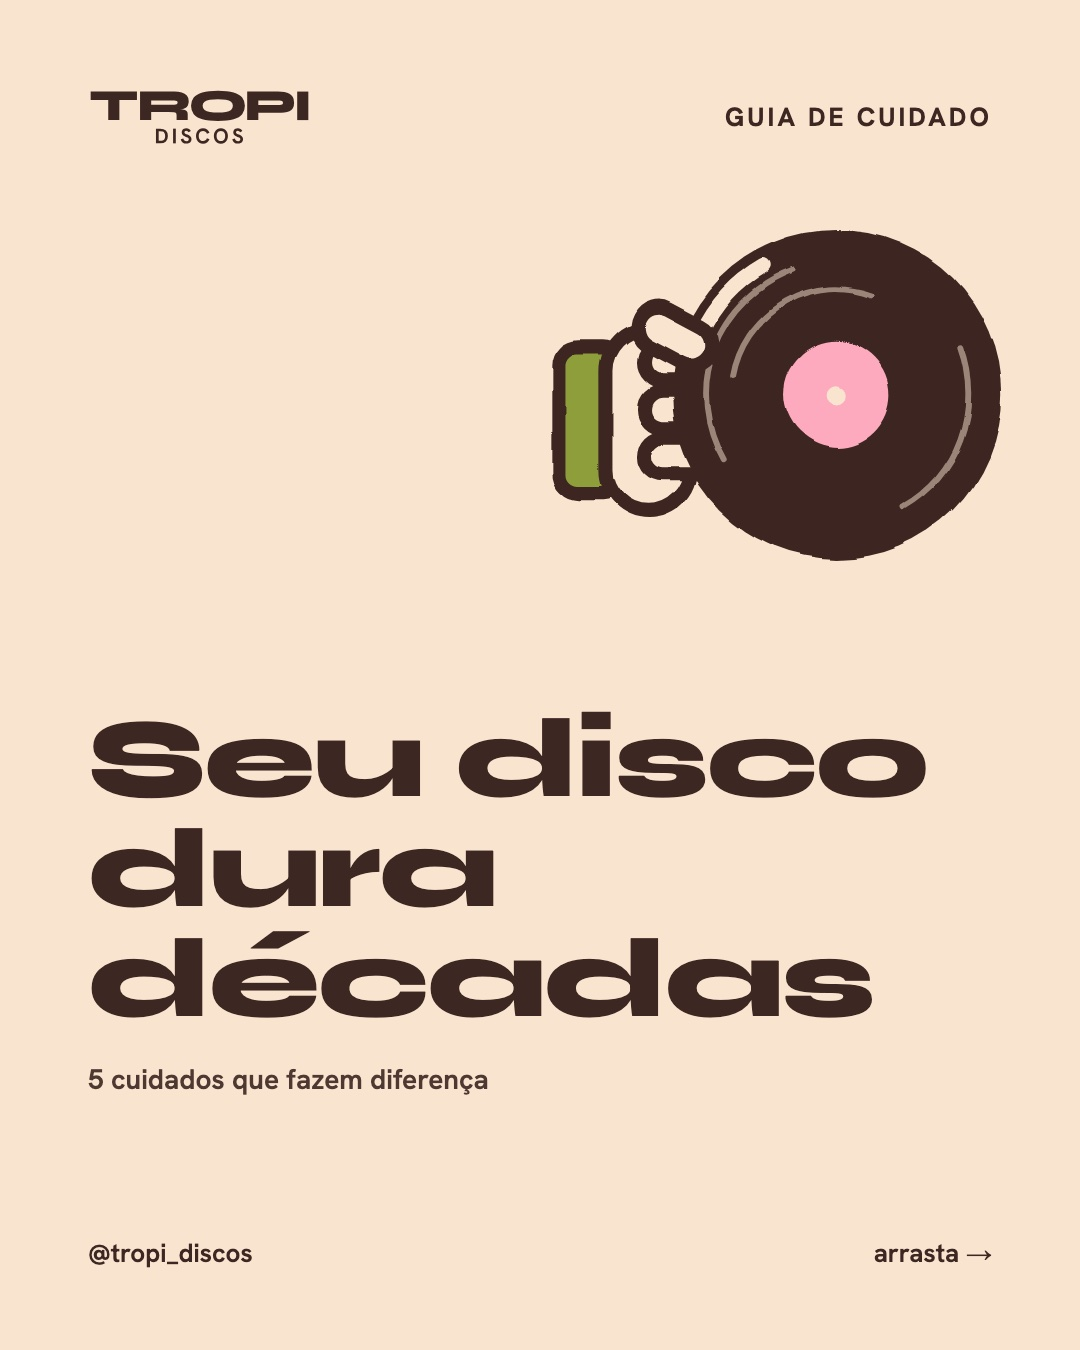
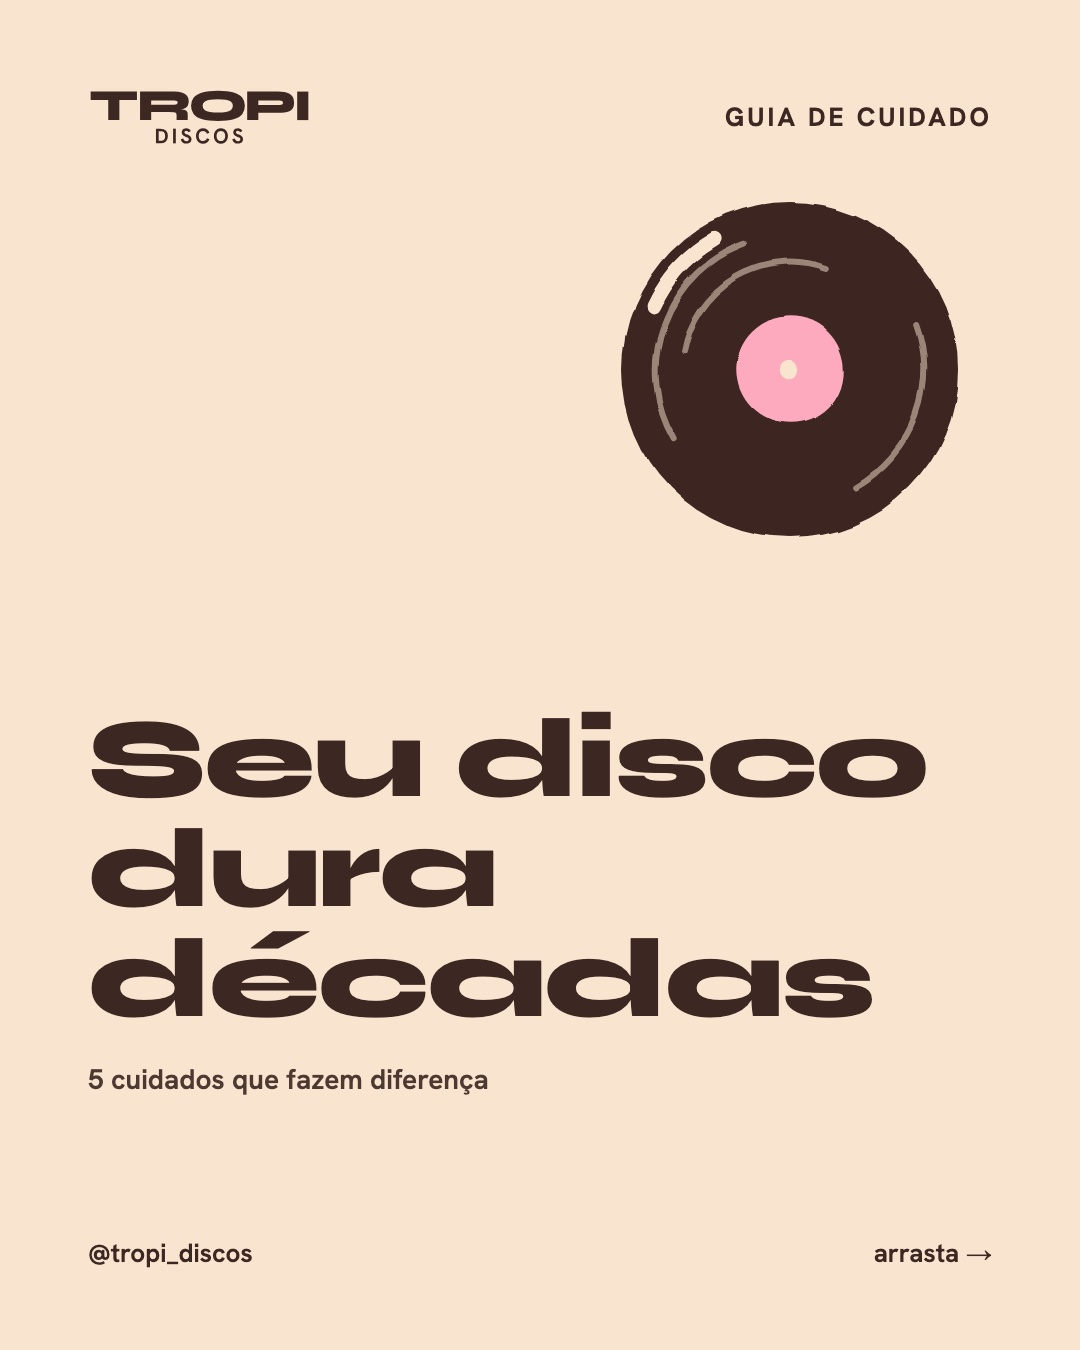
conteudo(tropi): vinil no lugar da mão e capas puras de Elza e Milton

Changed region(s): [[0.4889, 0.1244, 0.9472, 0.4356]]

diff --git a/clientes/tropi/2026-10/posts/09-data-importante/slide-1.html b/clientes/tropi/2026-10/posts/09-data-importante/slide-1.html
@@ -6,7 +6,7 @@
 </head>
 <body class="bg-goiaba">
 <div class="topo"><img class="logo" src="file:///Users/Lucas/Documents/Freelas/tropi-discos/marca/logo/final/logo/tropi-logo-cafe.svg" alt="Tropi Discos"><span class="rotulo">26 de outubro</span></div>
-<div class="bloco" style="gap:20px"><img class="cutout" src="disco-cutout.png" style="width:640px;margin-bottom:30px" alt=""><h1 class="ttl" style="font-size:88px;max-width:12ch">Milton faz aniversário</h1><p class="texto" style="max-width:30ch">84 anos da voz de Clube da Esquina. Na loja: Tarde, disco acústico pelo NRC.</p></div>
+<div class="bloco" style="gap:20px"><img class="capa-disco" src="capa.png" style="width:460px;margin-bottom:30px" alt=""><h1 class="ttl" style="font-size:88px;max-width:12ch">Milton faz aniversário</h1><p class="texto" style="max-width:30ch">84 anos da voz de Clube da Esquina. Na loja: Tarde, disco acústico pelo NRC.</p></div>
 <div class="rodape"><span class="handle">@tropi_discos</span></div>
 <img class="elemento" src="file:///Users/Lucas/Documents/Freelas/tropi-discos/marca/elementos/sol-disco/fundo-goiaba/sol-02-sol-inteiro.svg" style="width:300px;right:50px;top:140px" alt="">
 <script src="file:///Users/Lucas/Documents/Freelas/tropi-discos/marca/elementos/gerador/desenho.js"></script>

diff --git a/clientes/tropi/2026-10/posts/06-dica-rapida-borda/slide-1.html b/clientes/tropi/2026-10/posts/06-dica-rapida-borda/slide-1.html
@@ -8,7 +8,7 @@
 <div class="topo"><img class="logo" src="file:///Users/Lucas/Documents/Freelas/tropi-discos/marca/logo/final/logo/tropi-logo-cafe.svg" alt="Tropi Discos"><span class="rotulo">Dica rápida · 01</span></div>
 <div class="bloco" style="margin-top:430px"><h1 class="ttl" style="font-size:92px;max-width:12ch">Segure o disco pela borda</h1><p class="texto">O dedo deixa gordura nos sulcos. Borda e selo do centro são os únicos lugares seguros.</p></div>
 <div class="rodape"><span class="handle">@tropi_discos</span></div>
-<div class="desenho" data-elemento="mao" data-fundo="creme" style="width:440px;height:440px;right:70px;top:140px"></div>
+<div class="desenho" data-elemento="disco" data-fundo="creme" style="width:400px;height:400px;right:90px;top:150px"></div>
 <script src="file:///Users/Lucas/Documents/Freelas/tropi-discos/marca/elementos/gerador/desenho.js"></script>
 <script src="file:///Users/Lucas/Documents/Freelas/tropi-discos/marca/estudos/elementos-posts-outubro.js"></script>
 <script>TropiPosts.desenharTodos();</script>

diff --git a/clientes/tropi/2026-10/posts/03-cuidado-com-os-discos/slide-5.html b/clientes/tropi/2026-10/posts/03-cuidado-com-os-discos/slide-5.html
@@ -8,7 +8,7 @@
 <div class="topo"><img class="logo" src="file:///Users/Lucas/Documents/Freelas/tropi-discos/marca/logo/final/logo/tropi-logo-cafe.svg" alt="Tropi Discos"><span class="count">05 / 08</span></div>
 <div class="bloco" style="margin-top:430px"><span class="rotulo">Cuidado 3</span><h2 class="ttl">Segure pela borda</h2><p class="texto">O dedo deixa gordura nos sulcos. Borda e selo do centro são os únicos lugares seguros.</p></div>
 <div class="rodape"><span class="handle">@tropi_discos</span></div>
-<div class="desenho" data-elemento="mao" data-fundo="goiaba" style="width:420px;height:420px;right:70px;top:170px"></div>
+<div class="desenho" data-elemento="disco" data-fundo="goiaba" style="width:380px;height:380px;right:90px;top:170px"></div>
 <script src="file:///Users/Lucas/Documents/Freelas/tropi-discos/marca/elementos/gerador/desenho.js"></script>
 <script src="file:///Users/Lucas/Documents/Freelas/tropi-discos/marca/estudos/elementos-posts-outubro.js"></script>
 <script>TropiPosts.desenharTodos();</script>

diff --git a/clientes/tropi/2026-10/posts/03-cuidado-com-os-discos/slide-1.html b/clientes/tropi/2026-10/posts/03-cuidado-com-os-discos/slide-1.html
@@ -8,7 +8,7 @@
 <div class="topo"><img class="logo" src="file:///Users/Lucas/Documents/Freelas/tropi-discos/marca/logo/final/logo/tropi-logo-cafe.svg" alt="Tropi Discos"><span class="rotulo">Guia de cuidado</span></div>
 <div class="bloco" style="margin-top:420px"><h1 class="ttl-xl">Seu disco<br>dura décadas</h1><span class="micro">5 cuidados que fazem diferença</span></div>
 <div class="rodape"><span class="handle">@tropi_discos</span><span class="handle">arrasta →</span></div>
-<div class="desenho" data-elemento="mao" data-fundo="creme" style="width:470px;height:470px;right:60px;top:150px"></div>
+<div class="desenho" data-elemento="disco" data-fundo="creme" style="width:420px;height:420px;right:80px;top:160px"></div>
 <script src="file:///Users/Lucas/Documents/Freelas/tropi-discos/marca/elementos/gerador/desenho.js"></script>
 <script src="file:///Users/Lucas/Documents/Freelas/tropi-discos/marca/estudos/elementos-posts-outubro.js"></script>
 <script>TropiPosts.desenharTodos();</script>

diff --git a/clientes/tropi/2026-10/posts/07-musica-brasileira/slide-1.html b/clientes/tropi/2026-10/posts/07-musica-brasileira/slide-1.html
@@ -8,7 +8,7 @@
 <div class="topo"><img class="logo" src="file:///Users/Lucas/Documents/Freelas/tropi-discos/marca/logo/final/logo/tropi-logo-creme.svg" alt="Tropi Discos"><span class="rotulo">Frase da casa</span></div>
 <div class="bloco" style="margin-top:110px;margin-bottom:auto"><h1 class="ttl-xl" style="font-size:96px">A música brasileira é a melhor de todas.</h1></div>
 <div class="rodape"><span class="handle">@tropi_discos</span><span class="micro">Na vitrola: Elza Soares, 1974</span></div>
-<img class="cutout elemento" src="disco-cutout.png" style="width:540px;right:80px;bottom:140px" alt="">
+<img class="capa-disco elemento" src="capa.png" style="width:440px;right:88px;bottom:150px" alt="">
 <script src="file:///Users/Lucas/Documents/Freelas/tropi-discos/marca/elementos/gerador/desenho.js"></script>
 <script src="file:///Users/Lucas/Documents/Freelas/tropi-discos/marca/estudos/elementos-posts-outubro.js"></script>
 <script>TropiPosts.desenharTodos();</script>

diff --git a/clientes/tropi/visual.md b/clientes/tropi/visual.md
@@ -25,6 +25,11 @@ só vale para o post de transição que anuncia a mudança. Nenhum outro post us
   do repo da Tropi, conferindo o resultado. Se o recorte falhar (capa escura ou
   full-bleed), usar só a capa quadrada. Última opção: buscar uma imagem só da capa.
 - Nada de imagem solta, torta ou sem função no slide.
+- Mão com disco: recusada (2026-09-24). Para gesto com o disco, usar só a ilustração do vinil (`disco`).
+- Capa de disco: quando o recorte capa + vinil não fica limpo, usar a capa quadrada pura. Fontes que
+  funcionaram: a imagem "só capa" do produto no site da Tropi (quando existe), a Wikipédia (capa
+  original) e a página do produto no Noize Record Club (Shopify, `/products/<slug>.json`), cortando
+  só o quadrado da capa. Nunca capa com vinil do lado quando a imagem não estiver limpa.
 - Texto da nova identidade sem literalidade: o mascote é "o mascote" (não "disco
   com olhinhos"); o coqueiro serve para dizer que a marca ficou mais tropical, e
   aparece sozinho (`coqueiro-02-simples`), sem o sol.
